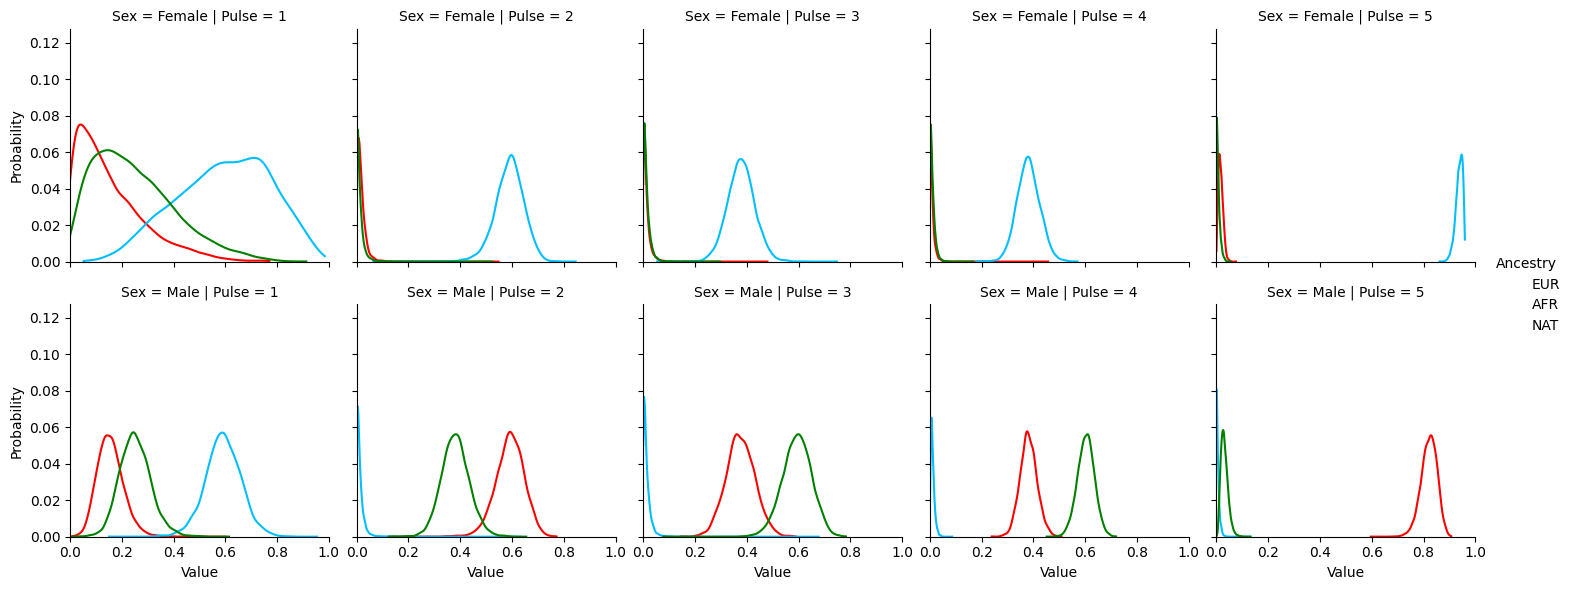
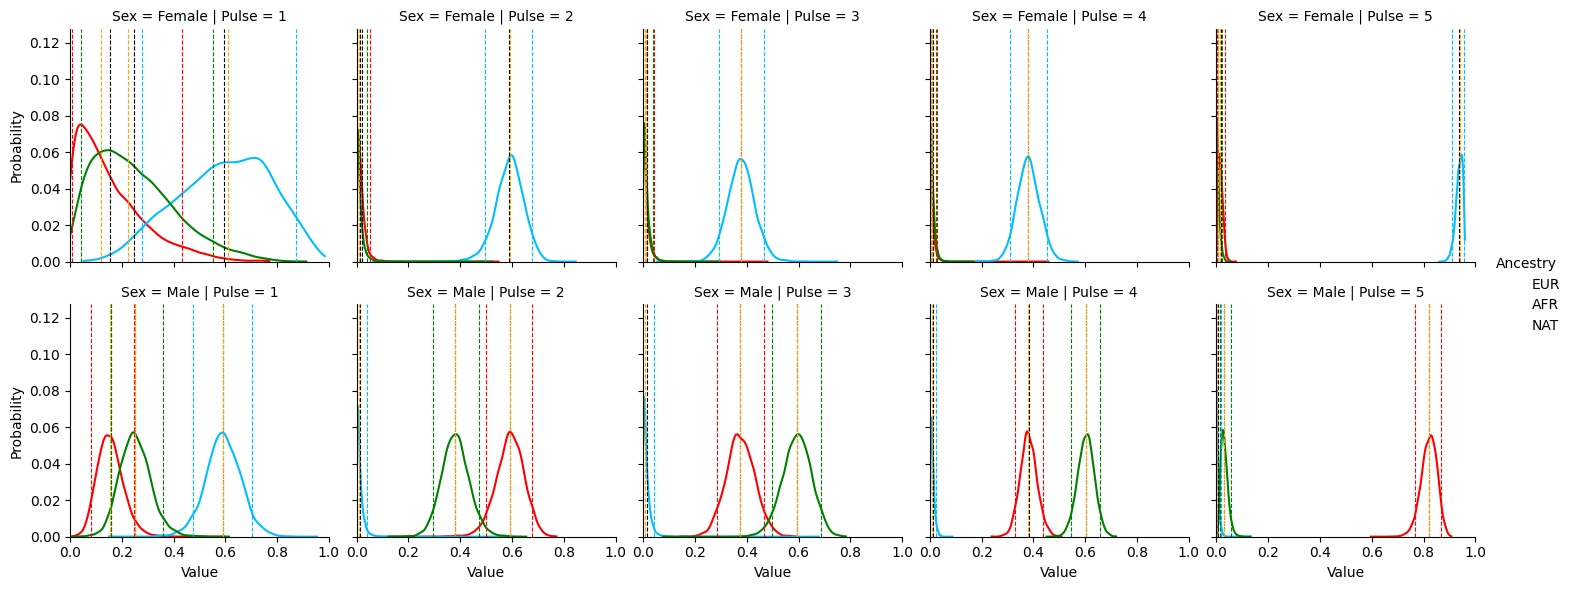
Added lines for 5% and 95% quantiles in graphs

diff --git a/script.py b/script.py
@@ -92,62 +92,75 @@ def plot_histograms_diff(df, hybrid, type, percentage, savefile):
     sexes = ("Female", "Male")
     if hybrid == "no_hybrid": 
         ancestries = ("EUR", "AFR", "NAT")
-        df_temp = df[(df["Ancestry"] != "HYB") & (df["Value"] != 0)]
+        df_hist = df[(df["Ancestry"] != "HYB") & (df["Value"] != 0)]
         colours = ["red", "deepskyblue", "green"]
     elif hybrid == "only_hybrid":
-        ancestries = ("HYB")
-        df_temp = df[(df["Ancestry"] == "HYB") & (df["Value"] != 0)]
+        ancestries = ("HYB", )
+        df_hist = df[(df["Ancestry"] == "HYB") & (df["Value"] != 0)]
         colours = ["darkviolet"]
     else:
         ancestries = ("EUR", "AFR", "NAT", "HYB")
-        df_temp = df[(df["Value"] != 0)]
+        df_hist = df[(df["Value"] != 0)]
         colours = ["red", "deepskyblue", "green", "darkviolet"]
 
-    graph = sns.FacetGrid(df_temp, col="Pulse", row="Sex", hue="Ancestry", palette=colours)
+    graph = sns.FacetGrid(df_hist, col="Pulse", row="Sex", hue="Ancestry", palette=colours)
     graph = (graph.map_dataframe(sns.histplot, x="Value", multiple=type, stat='probability').add_legend())
-
-    axesFemale = graph.axes[0]
-    axesMale = graph.axes[1]
     
-    for j in range (1, NUMBER_PULSES+1):
-            for anc in range (0, len(ancestries)):
-                df_temp = df.loc[(df["Pulse"] == j) & (df["Sex"] == "Female") & (df_temp["Ancestry"] == ancestries[anc])]
-                if df_temp.empty:
-                    continue
-                #drawing quantile bounds in graph
-                lower_quantile = np.percentile(df_temp["Value"], ((100-percentage)/2), method="closest_observation")
-                upper_quantile = np.percentile(df_temp["Value"], (100-((100-percentage)/2)), method="closest_observation")
-                plt.axvline(ax=axesMale[j-1], x=lower_quantile, colors=colours[anc], ls='--')
-                plt.axvline(ax=axesMale[j-1], x=upper_quantile, colors=colours[anc], ls='--')
-
-    for j in range (1, NUMBER_PULSES+1):
-            for anc in range (0, len(ancestries)):
-                df_temp = df.loc[(df["Pulse"] == j) & (df["Sex"] == "Female") & (df_temp["Ancestry"] == ancestries[anc])]
-                if df_temp.empty:
-                    continue
-                #drawing quantile bounds in graph
-                lower_quantile = np.percentile(df_temp["Value"], ((100-percentage)/2), method="closest_observation")
-                upper_quantile = np.percentile(df_temp["Value"], (100-((100-percentage)/2)), method="closest_observation")
-                plt.axvline(ax=axesMale[j-1], x=lower_quantile, colors=colours[anc], ls='--')
-                plt.axvline(ax=axesMale[j-1], x=upper_quantile, colors=colours[anc], ls='--')
+    for i in range(0, 2):
+        axes = graph.axes[i]
+        for j in range (0, len(axes)):
+                for anc in range (0, len(ancestries)):
+                    if hybrid == "only_hybrid": pulse = j+2
+                    else: pulse = j+1
+                    df_temp = df_hist.loc[(df_hist["Pulse"] == pulse) & (df_hist["Sex"] == sexes[i]) & (df_hist["Ancestry"] == ancestries[anc])]
+                    if df_temp.empty:
+                        continue
+                    #drawing quantile bounds in graph
+                    lower_quantile = np.percentile(df_temp["Value"], ((100-percentage)/2), method="closest_observation")
+                    upper_quantile = np.percentile(df_temp["Value"], (100-((100-percentage)/2)), method="closest_observation")
+                    axes[j].axvline(x=lower_quantile, color=colours[anc], linestyle='--', linewidth=0.8, label='05%')
+                    axes[j].axvline(x=upper_quantile, color=colours[anc], linestyle='--', linewidth=0.8, label='90%')
     # graph.set(yscale="log")
     plt.xlim([0, 1])
     graph.savefig(savefile)
 
-def plot_lines(df, hybrid, savefile):
+def plot_lines(df, hybrid, percentage, savefile):
+    sexes = ("Female", "Male")
     if hybrid == "no_hybrid": 
-        df_temp = df[(df["Ancestry"] != "HYB") & (df["Value"] != 0)]
-        colors = ["red", "deepskyblue", "green"]
+        ancestries = ("EUR", "AFR", "NAT")
+        df_hist = df[(df["Ancestry"] != "HYB") & (df["Value"] != 0)]
+        colours = ["red", "deepskyblue", "green"]
     elif hybrid == "only_hybrid":
-        df_temp = df[(df["Ancestry"] == "HYB") & (df["Value"] != 0)]
-        colors = ["darkviolet"]
+        ancestries = ("HYB", )
+        df_hist = df[(df["Ancestry"] == "HYB") & (df["Value"] != 0)]
+        colours = ["darkviolet"]
     else:
-        df_temp = df[(df["Value"] != 0)]
-        colors = ["red", "deepskyblue", "green", "darkviolet"]
+        ancestries = ("EUR", "AFR", "NAT", "HYB")
+        df_hist = df[(df["Value"] != 0)]
+        colours = ["red", "deepskyblue", "green", "darkviolet"]
 
-    graph = sns.FacetGrid(df_temp, col="Pulse", row="Sex", hue="Ancestry", palette=colors)
+    graph = sns.FacetGrid(df_hist, col="Pulse", row="Sex", hue="Ancestry", palette=colours)
     graph = (graph.map_dataframe(sns.histplot, x="Value", fill=False, linewidth=0, kde=True, stat='probability').add_legend())
-    # graph.set(yscale="log")
+
+    graph._x_var
+
+    for i in range(0, 2):
+        axes = graph.axes[i]
+        for j in range (0, len(axes)):
+                for anc in range (0, len(ancestries)):
+                    if hybrid == "only_hybrid": pulse = j+2
+                    else: pulse = j+1
+                    df_temp = df_hist.loc[(df_hist["Pulse"] == pulse) & (df_hist["Sex"] == sexes[i]) & (df_hist["Ancestry"] == ancestries[anc])]
+                    if df_temp.empty:
+                        continue
+                    #drawing quantile bounds in graph
+                    lower_quantile = np.percentile(df_temp["Value"], ((100-percentage)/2), method="closest_observation")
+                    upper_quantile = np.percentile(df_temp["Value"], (100-((100-percentage)/2)), method="closest_observation")
+                    axes[j].axvline(x=lower_quantile, color=colours[anc], linestyle='--', linewidth=0.8)
+                    axes[j].axvline(x=upper_quantile, color=colours[anc], linestyle='--', linewidth=0.8)
+                    # axes[j].text(lower_quantile-0.1, (axes[j].get_ylim()[1]-0.01), "5%")
+                    # axes[j].text(upper_quantile+0.1, (axes[j].get_ylim()[1]-0.01), "90%")
+
     plt.xlim([0, 1])
     graph.savefig(savefile)
 
@@ -318,11 +331,11 @@ del df
 create_directories()
 
 plot_histograms_diff(df_new, "with_hybrid", "layer", 90, "./NO_HDR/Standard/histogram.png")
-plot_lines(df_new, "with_hybrid", "./NO_HDR/Standard/line_graph.png")
+plot_lines(df_new, "with_hybrid", 90, "./NO_HDR/Standard/line_graph.png")
 plot_histograms_diff(df_new, "no_hybrid", "layer", 90, "./NO_HDR/Hybrid_Separated/no_hybrid_histogram.png")
-plot_lines(df_new, "no_hybrid", "./NO_HDR/Hybrid_Separated/no_hybrid_line_graph.png")
+plot_lines(df_new, "no_hybrid", 90, "./NO_HDR/Hybrid_Separated/no_hybrid_line_graph.png")
 plot_histograms_diff(df_new, "only_hybrid", "layer", 90, "./NO_HDR/Hybrid_Separated/only_hybrid_histogram.png")
-plot_lines(df_new, "only_hybrid", "./NO_HDR/Hybrid_Separated/only_hybrid_line_graph.png")
+plot_lines(df_new, "only_hybrid", 90, "./NO_HDR/Hybrid_Separated/only_hybrid_line_graph.png")
 
 write_stats(df_new, "./stats_NO_HDR.csv")
 
